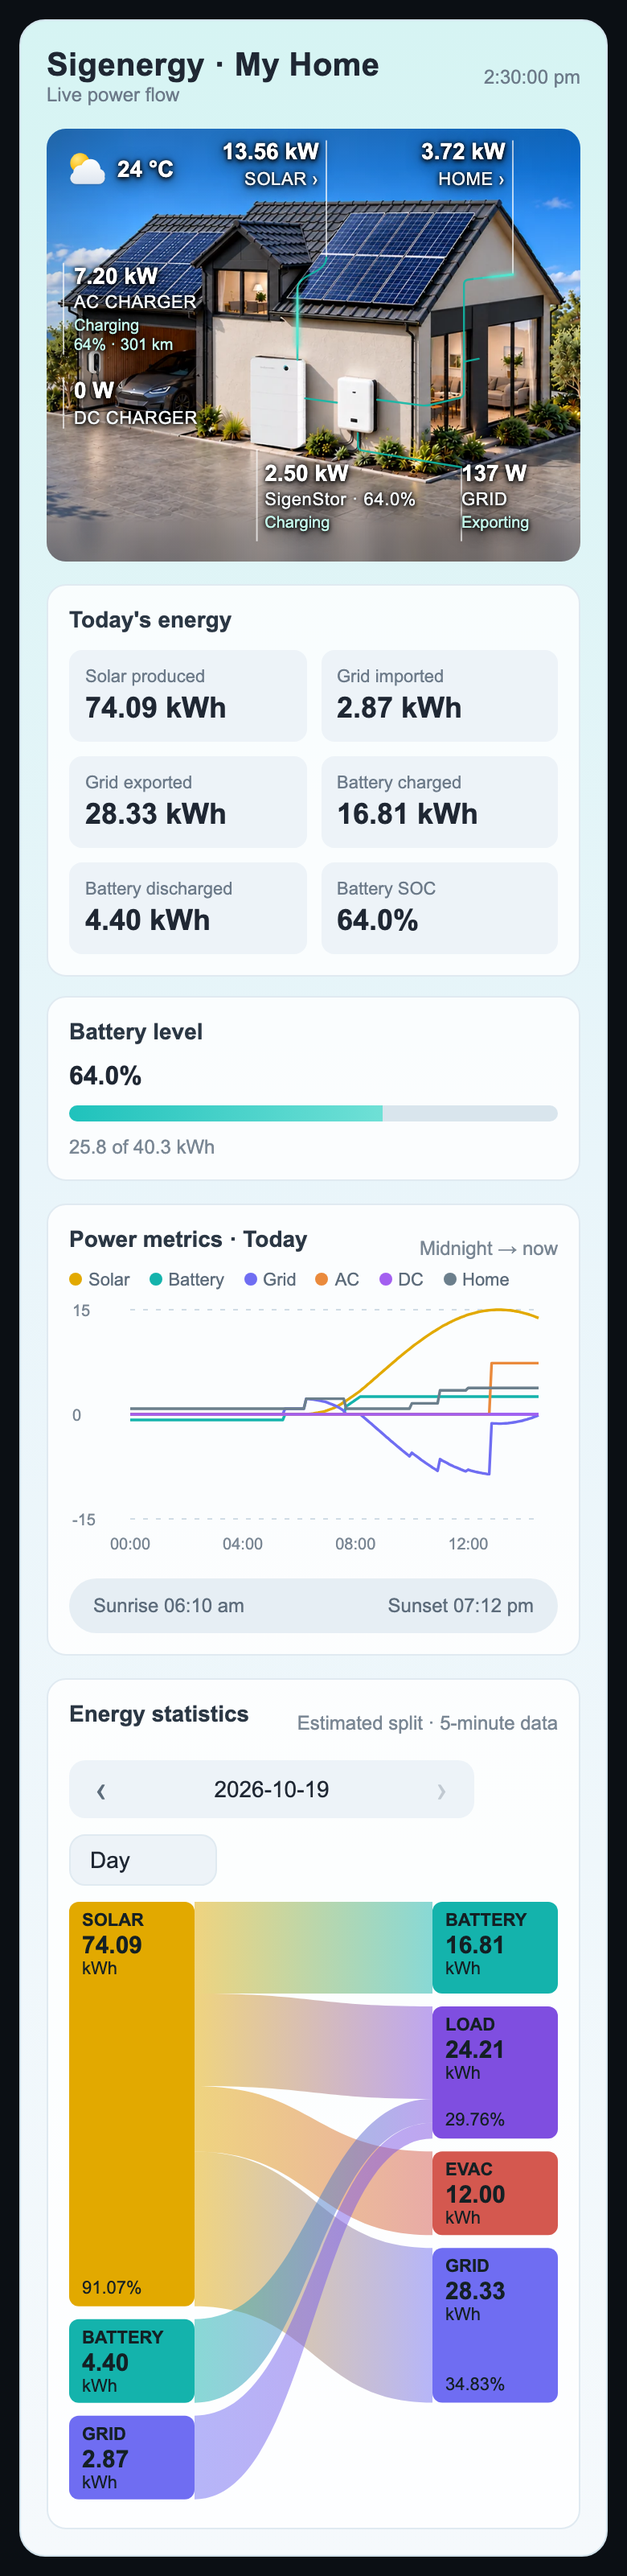
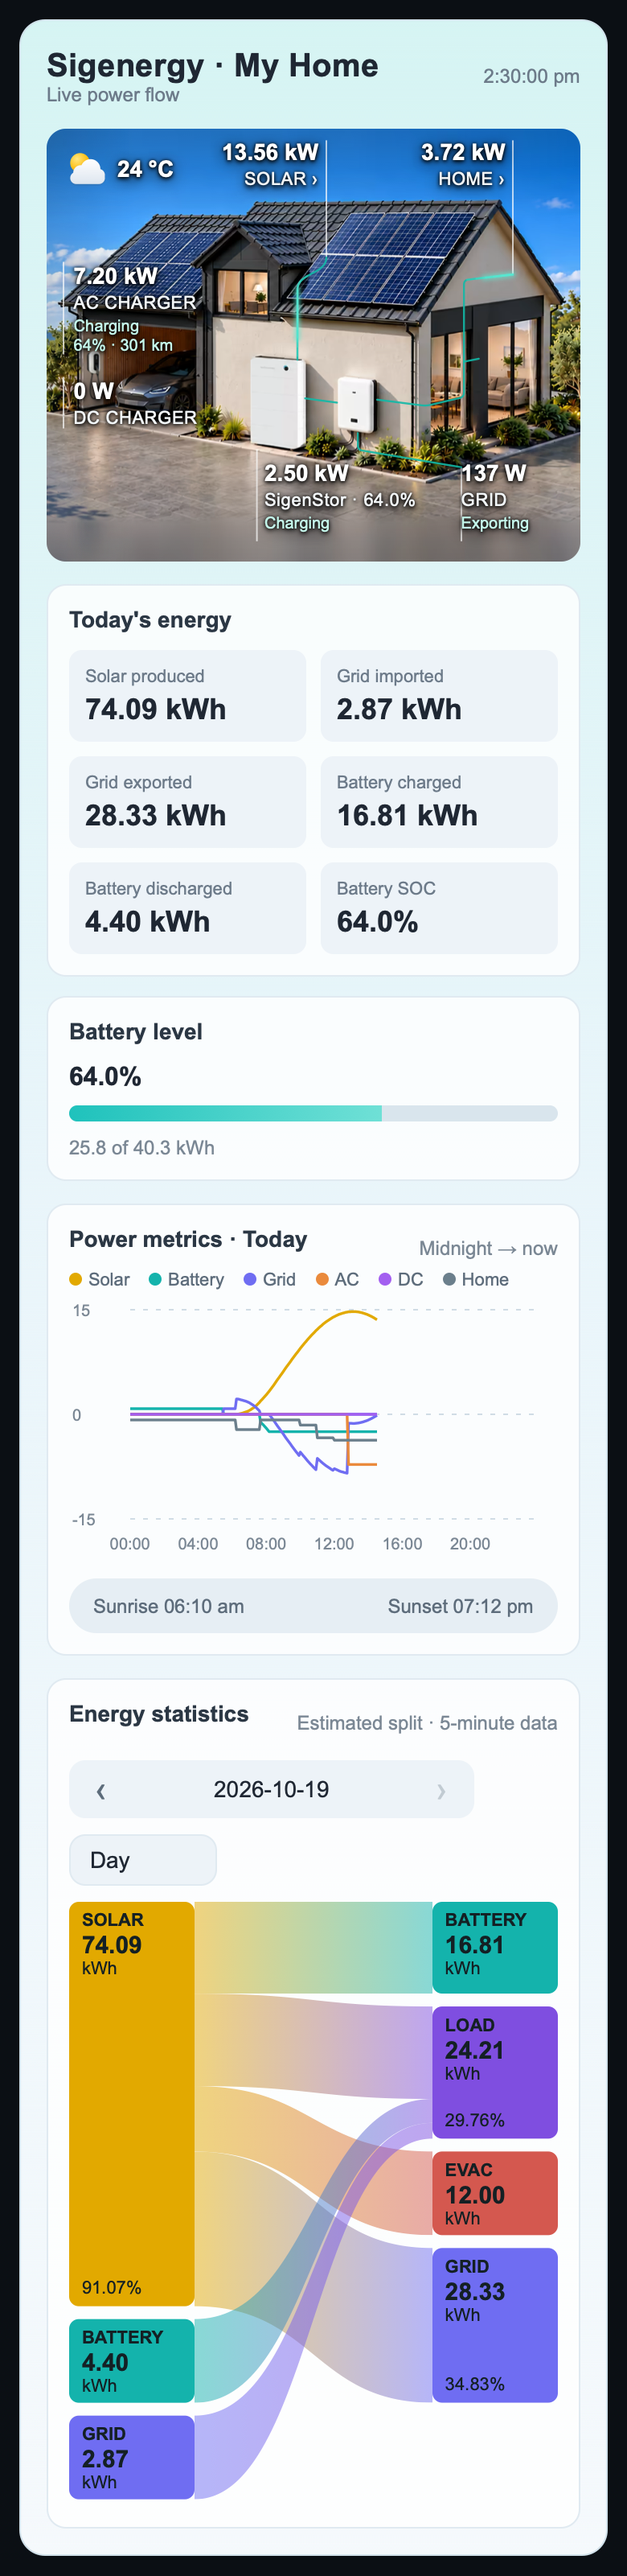
Render the README screenshots with WebKit, for v58's charts
tools/screenshots.js renders with WebKit, Safari's engine, instead of
Chromium; $WEBKIT replaces $CHROMIUM to point at a browser. The
screenshots are regenerated with it for v58: the Power metrics chart
plots supply above zero and the Today charts span the whole day, and the
desktop tooltip now sits at 2:14 pm, over the empty afternoon, where it
no longer hides the day's lines.

diff --git a/tools/screenshots.js b/tools/screenshots.js
@@ -4,13 +4,13 @@
 //
 //     node tools/screenshots.js [card.js] [output directory]
 //
-// It needs Playwright: playwright-core is found through $PLAYWRIGHT_CORE (the package's directory) or the usual
-// module search, and the browser through $CHROMIUM or Playwright's own install, for example:
+// It renders with WebKit, Safari's engine, through Playwright: playwright-core is found through $PLAYWRIGHT_CORE (the
+// package's directory) or the usual module search, and the browser through $WEBKIT or Playwright's own install, e.g.:
 //
-//     npm install --prefix /tmp/sigpw playwright-core && npx --prefix /tmp/sigpw playwright-core install chromium
+//     npm install --prefix /tmp/sigpw playwright-core && npx --prefix /tmp/sigpw playwright-core install webkit
 //     PLAYWRIGHT_CORE=/tmp/sigpw/node_modules/playwright-core node tools/screenshots.js
 const path = require('path');
-const { chromium } = require(process.env.PLAYWRIGHT_CORE || 'playwright-core');
+const { webkit } = require(process.env.PLAYWRIGHT_CORE || 'playwright-core');
 const ROOT = path.resolve(__dirname, '..');
 const card = path.resolve(process.argv[2] || path.join(ROOT, 'sigenergy-flow-card.js'));
 const out = path.resolve(process.argv[3] || path.join(ROOT, 'docs', 'screenshots'));
@@ -145,7 +145,7 @@ async function statClip(page, pad) {
 }
 
 (async () => {
-    const browser = await chromium.launch(process.env.CHROMIUM ? { executablePath: process.env.CHROMIUM } : {});
+    const browser = await webkit.launch(process.env.WEBKIT ? { executablePath: process.env.WEBKIT } : {});
     const device = (width, height, pad, scale) => ({ viewport: { width, height }, deviceScaleFactor: scale, locale: 'en-AU', timezoneId: 'Australia/Sydney', pad });
     const shots = [
         { name: 'desktop', ...device(1000, 625, 11, 1.6) },

diff --git a/README.md b/README.md
@@ -426,7 +426,7 @@ Small Python scripts in `tools/` that query the system directly over Modbus TCP 
 
 The card itself reads everything from Home Assistant entities (battery level, phase power mode and AC charger energy included), so it does not need these scripts; they are for use outside Home Assistant.
 
-`tools/screenshots.js` regenerates the screenshots in `docs/screenshots/` from one simulated day, so the tiles, charts and statistics agree; it needs Node.js and [Playwright](https://playwright.dev) (see the comment at its top).
+`tools/screenshots.js` regenerates the screenshots in `docs/screenshots/` from one simulated day, so the tiles, charts and statistics agree; it renders with WebKit through [Playwright](https://playwright.dev) and needs Node.js (see the comment at its top).
 
 ## License
 
